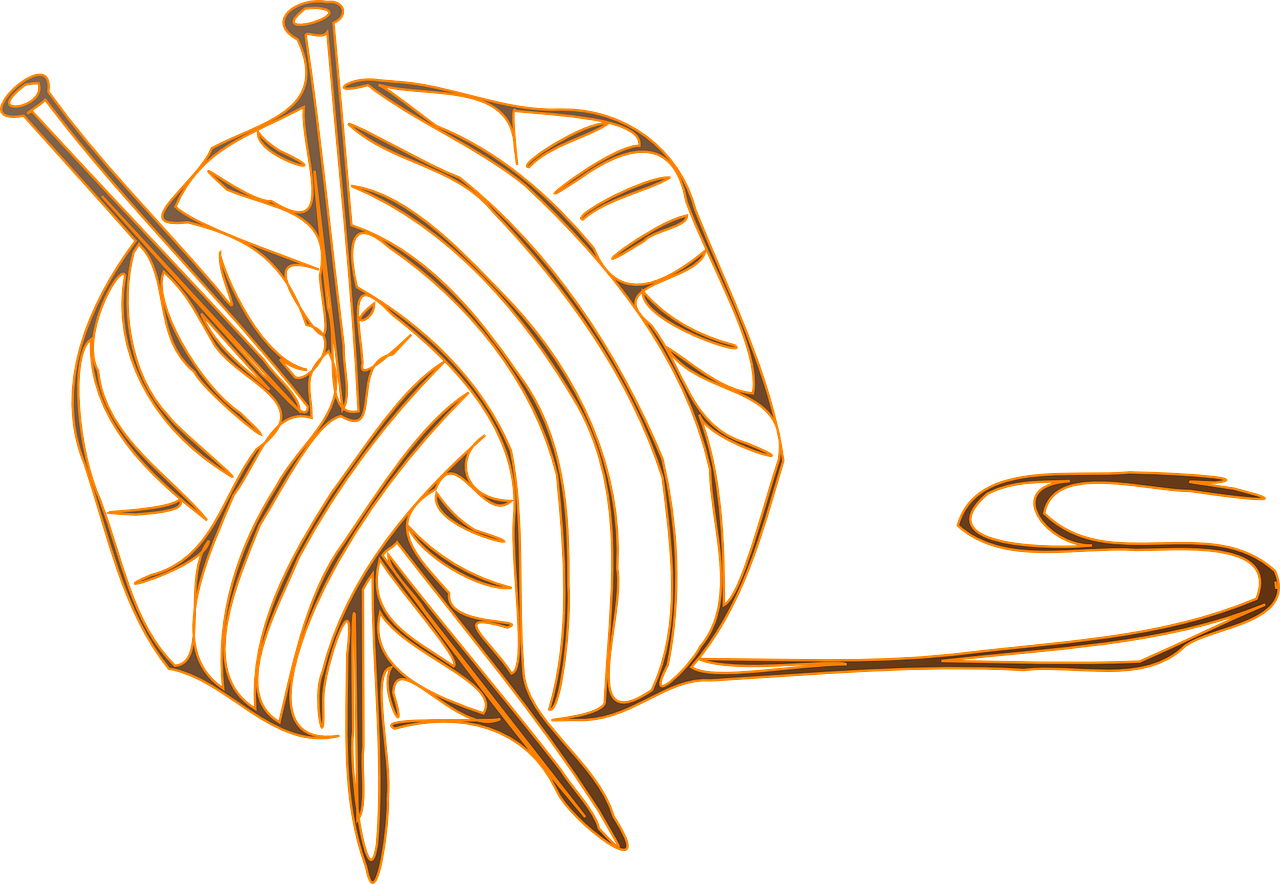
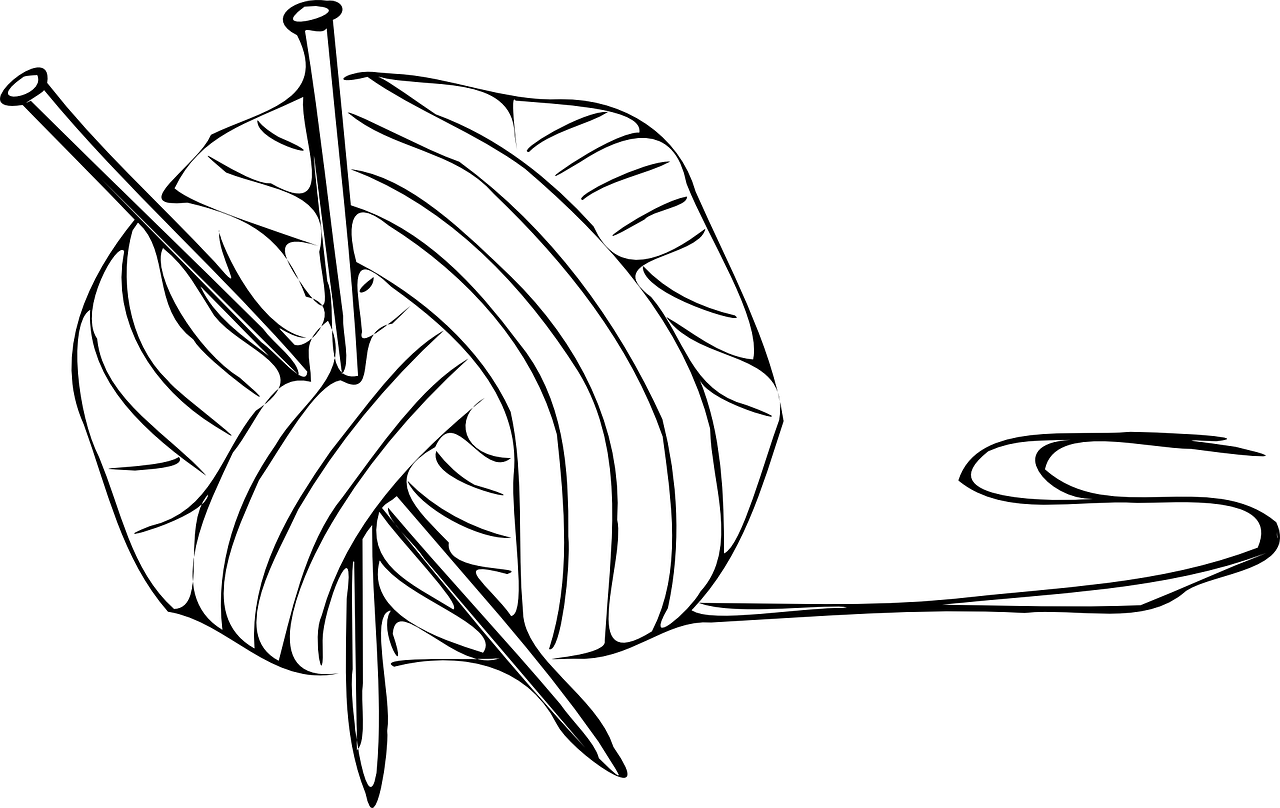
change image in motion color

Changed region(s): [[0.0, 0.0, 1.0, 1.0]]

diff --git a/app/AcceptModal.tsx b/app/AcceptModal.tsx
@@ -41,8 +41,10 @@ const AcceptModal= () => {
 
   return (
     <div className='bg-darknavy text-champagne text-6xl p-20 flex flex-col rounded-lg border-2'>
-      <h2 className='keyboard_hide text-9xl'>Genial!</h2>
-      <p className='font-serif mt-4'>Por favor envíame tu nombre para confirmar...</p>
+      {!success && <>
+        <h2 className='keyboard_hide text-9xl'>Genial!</h2>
+        <p className='font-serif mt-4'>Por favor envíame tu nombre para confirmar...</p>
+      </>}
       <input 
         type="text" 
         maxLength={35}

diff --git a/styles/globals.css b/styles/globals.css
@@ -16,9 +16,9 @@
     .icon-2 {
         margin-left: -22px;
     }
-    .icon-moving {
+    /* .icon-moving {
         filter: invert(0%) sepia(2%) saturate(0%) hue-rotate(253deg) brightness(100%) contrast(100%);
-    }
+    } */
     .mbTitle {
         margin-bottom: -70px;
     }
